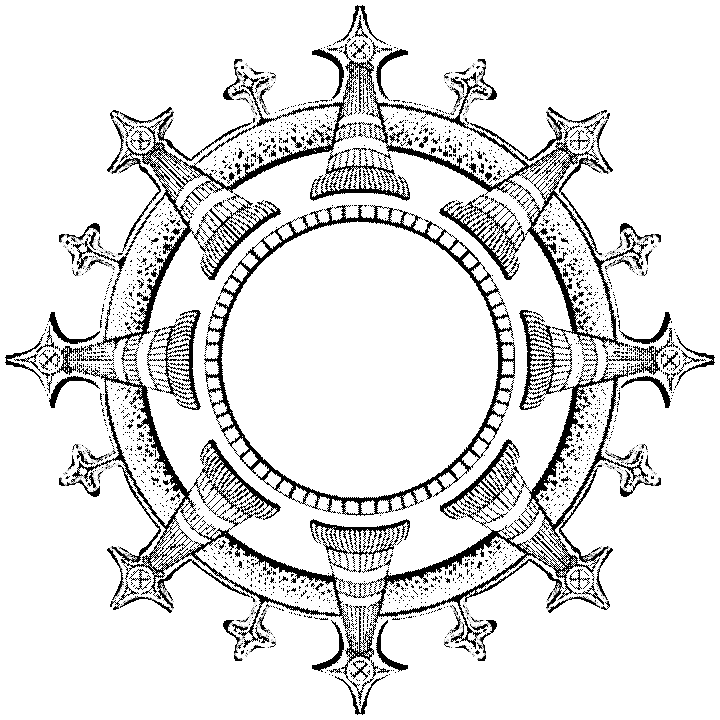
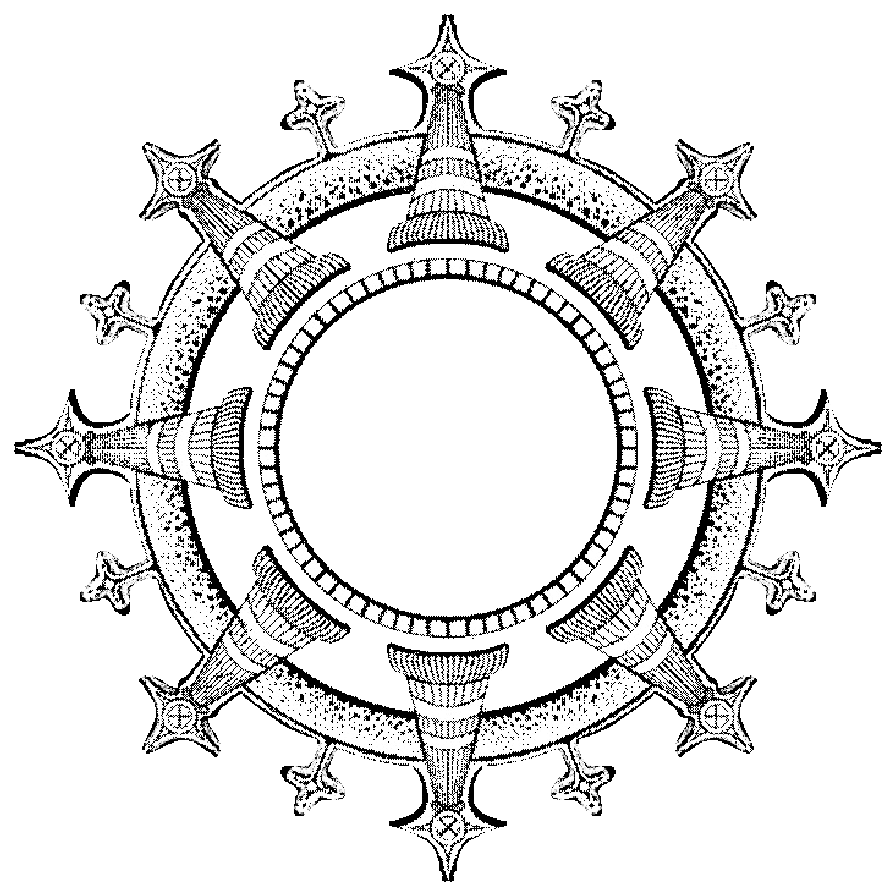
v3.09 | Error Page Web Version

Changed region(s): [[0.0, 0.0, 1.0, 1.0]]

diff --git a/portfolio/src/components/0p_error.jsx b/portfolio/src/components/0p_error.jsx
@@ -4,19 +4,21 @@ import maru from "../img/eroruMaru.PNG";
 
 // Do not forget that function name must have capital beginning letter
 export default function Error404() {
-  {
-    /* Write your back code here OmO */
-  }
-
-  {
-    /* Here it ends oh no */
-  }
   return (
     <div id="Error" className="snap-start relative min-h-screen bg-len-Black">
       {/* Write your front code here OmO */}
-
       <div className="absolute top-1/2 left-0 pl-16 transform -translate-y-1/2">
-        <div className="p-6 sm:visible sm:min-w-[460px] sm:max-w-[500px] md:min-w-[540px] md:max-w-[600px]">
+        <div className="p-3">
+          <img
+            className="z-0 animate-spin-slow"
+            loading="lazy"
+            src={maru}
+            alt="EroruChan"
+          />
+        </div>
+      </div>
+      <div className="absolute top-1/2 left-0 pl-16 transform -translate-y-1/2">
+        <div className="p-3">
           <img className="z-30" loading="lazy" src={eroru} alt="EroruChan" />
         </div>
       </div>

diff --git a/portfolio/tailwind.config.js b/portfolio/tailwind.config.js
@@ -4,6 +4,9 @@ module.exports = {
   content: ["./src/**/*.{html,js,jsx}"],
   theme: {
     extend: {
+      animation: {
+        "spin-slow": "spin 12s linear infinite",
+      },
       fontFamily: {
         NJPBlack: ["NJP-Black", "opentype"],
         NJPBold: ["NJP-Bold", "opentype"],

diff --git a/portfolio/src/App.jsx b/portfolio/src/App.jsx
@@ -20,6 +20,8 @@ function App() {
       <Map />
       <EndLetter />
       <Error404 />
+      <Gallery />
+
       {/* <Albums /> */}
     </section>
   );
